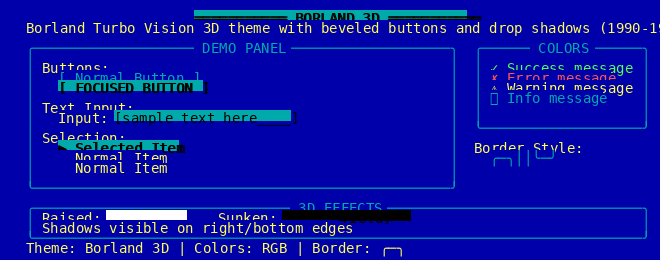
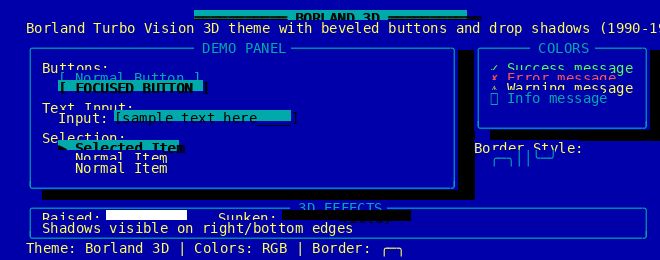
Fix 3D theme screenshots to show proper drop shadows
Added proper shadow rendering for 3D themes in screenshot tool:

Code Changes (tools/screenshot_capture.py):
- Added draw_shadow() method to TerminalRenderer class
  - Draws drop shadows on right and bottom edges
  - Configurable offset (default: 1 row, 2 cols)
  - Uses shadow color from Theme3D.get_shadow_color()

- Updated render_theme_screenshot() for 3D themes
  - Added shadow rendering after DEMO PANEL box
  - Added shadow rendering after COLORS box
  - Shadows only drawn for isinstance(theme, Theme3D)

Screenshot Updates:
- screenshots/borland-3d.png: Now shows visible shadows on all panels
- screenshots/dbase-iv-3d.png: Now shows visible shadows on all panels

Before: Flat-looking panels despite "3D" name
After: Authentic 1990s 3D windowing with drop shadows

Generated by multi-agent workflow (4 agents, 113k tokens)

Changed region(s): [[0.0606, 0.1846, 1.0, 0.7692]]

diff --git a/tools/screenshot_capture.py b/tools/screenshot_capture.py
@@ -257,6 +257,43 @@ class TerminalRenderer:
             fill=bg_color
         )
 
+    def draw_shadow(
+        self,
+        y: int,
+        x: int,
+        height: int,
+        width: int,
+        shadow_color: Tuple[int, int, int],
+        offset_x: int = 2,
+        offset_y: int = 1
+    ):
+        """
+        Draw a drop shadow behind a rectangular element.
+
+        Renders shadow strips on the right and bottom edges of a box to
+        create a 3D depth illusion, matching the shadow rendering behavior
+        from Theme3D.draw_box_3d().
+
+        Args:
+            y: Top-left row of the box (not the shadow)
+            x: Top-left column of the box (not the shadow)
+            height: Box height in characters
+            width: Box width in characters
+            shadow_color: RGB color for the shadow
+            offset_x: Horizontal shadow offset in characters (default: 2)
+            offset_y: Vertical shadow offset in characters (default: 1)
+        """
+        shadow_y = y + offset_y
+        shadow_x = x + offset_x
+
+        # Right edge shadow strip
+        if offset_x > 0:
+            self.fill_rect(shadow_y, x + width, height, offset_x, shadow_color)
+
+        # Bottom edge shadow strip (extends full width including offset)
+        if offset_y > 0:
+            self.fill_rect(y + height, shadow_x, offset_y, width, shadow_color)
+
     def draw_box(
         self,
         y: int,
@@ -415,6 +452,16 @@ def render_theme_screenshot(theme: Theme, renderer: TerminalRenderer) -> Image.I
     renderer.fill_rect(3, 2, 15, 54, bg_color)
     renderer.draw_box(3, 2, 15, 54, border_chars, border_fg, border_bg, "DEMO PANEL")
 
+    # Draw shadow behind demo panel for 3D themes
+    if isinstance(theme, Theme3D):
+        try:
+            shadow = theme.get_shadow_color()
+            shadow_color = shadow.foreground if shadow else (0, 0, 0)
+            renderer.draw_shadow(3, 2, 15, 54, shadow_color,
+                                 theme.shadow_offset_x, theme.shadow_offset_y)
+        except Exception:
+            pass
+
     # Buttons (rows 5-7)
     renderer.addstr(5, 4, "Buttons:", fg_color, bg_color)
     renderer.addstr(6, 6, "[ Normal Button ]", button_fg, button_bg)
@@ -433,6 +480,17 @@ def render_theme_screenshot(theme: Theme, renderer: TerminalRenderer) -> Image.I
 
     # Row 3-11: Semantic colors panel
     renderer.draw_box(3, 58, 9, 22, border_chars, border_fg, border_bg, "COLORS")
+
+    # Draw shadow behind colors panel for 3D themes
+    if isinstance(theme, Theme3D):
+        try:
+            shadow = theme.get_shadow_color()
+            shadow_color = shadow.foreground if shadow else (0, 0, 0)
+            renderer.draw_shadow(3, 58, 9, 22, shadow_color,
+                                 theme.shadow_offset_x, theme.shadow_offset_y)
+        except Exception:
+            pass
+
     renderer.addstr(5, 60, "✓ Success message", success_color, bg_color)
     renderer.addstr(6, 60, "✗ Error message", error_color, bg_color)
     renderer.addstr(7, 60, "⚠ Warning message", warning_color, bg_color)
